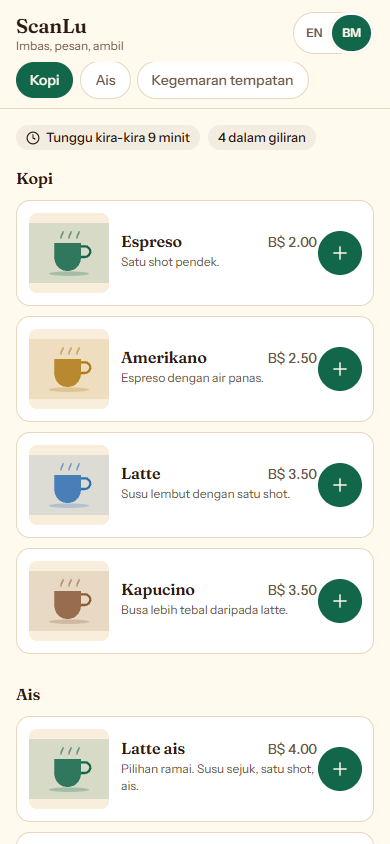
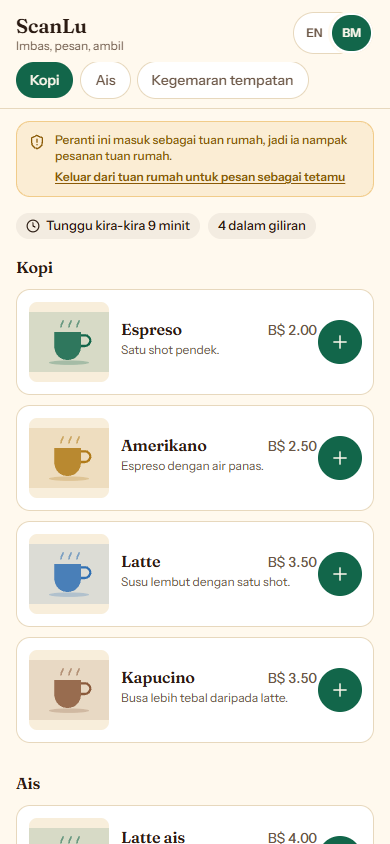
Say when the guest menu is running as the host
An order placed on one device showed up on another, which looked like a privacy
leak. It was not: two tabs of the same browser share one Supabase session, so once
the admin tab had signed in, the guest tab was the admin too, and the order
belonged to the admin account. Any other device still holding that admin session
could read it. Two separate browser profiles are properly isolated, which was
confirmed against the live site before changing anything.

The confusion is worth fixing anyway. The guest menu now shows a notice when the
device is signed in as the host, saying that this device sees host orders, with a
one tap way to sign out and order as a guest. A plain guest sees nothing.

Verified: a fresh profile shows no notice, a host device shows it, signing out
clears it, and the admin area then asks for the passcode again.

diff --git a/src/components/HostNotice.tsx b/src/components/HostNotice.tsx
@@ -1,0 +1,59 @@
+import { useEffect, useState } from 'react'
+import { useTranslation } from 'react-i18next'
+import { ShieldAlert } from 'lucide-react'
+import { getBackend } from '../lib/backend'
+
+/**
+ * A guest page on a device that is still signed in as the host. Both areas share
+ * one browser session, so orders placed here belong to the admin account and the
+ * host's other devices can see them. That looked like a privacy leak, so say what
+ * is happening and offer the way out.
+ */
+export function HostNotice() {
+  const { t } = useTranslation()
+  const [isHost, setIsHost] = useState(false)
+  const [leaving, setLeaving] = useState(false)
+
+  useEffect(() => {
+    let alive = true
+    void (async () => {
+      try {
+        const backend = await getBackend()
+        const admin = await backend.isAdmin()
+        if (alive) setIsHost(admin)
+      } catch {
+        /* not important enough to surface */
+      }
+    })()
+    return () => {
+      alive = false
+    }
+  }, [])
+
+  if (!isHost) return null
+
+  const signOut = async () => {
+    setLeaving(true)
+    const backend = await getBackend()
+    await backend.signOutAdmin()
+    // Reload so the browser picks up a fresh guest session.
+    window.location.reload()
+  }
+
+  return (
+    <div className="mx-4 mt-3 flex items-start gap-2.5 rounded-[var(--radius-md)] border border-warning/40 bg-warning/12 px-3 py-2.5">
+      <ShieldAlert className="mt-0.5 size-4 shrink-0 text-warning-ink" aria-hidden="true" />
+      <div className="min-w-0 flex-1">
+        <p className="text-xs font-medium text-warning-ink">{t('hostNotice.title')}</p>
+        <button
+          type="button"
+          onClick={() => void signOut()}
+          disabled={leaving}
+          className="mt-1 text-xs font-semibold text-warning-ink underline underline-offset-2 disabled:opacity-60"
+        >
+          {leaving ? t('hostNotice.leaving') : t('hostNotice.action')}
+        </button>
+      </div>
+    </div>
+  )
+}

diff --git a/src/pages/MenuPage.tsx b/src/pages/MenuPage.tsx
@@ -10,6 +10,7 @@ import { Banner, Button, Chip, Skeleton, cx } from '../components/ui'
 import { CupArt, ItemSheet } from '../components/ItemSheet'
 import { WelcomeCard } from '../components/WelcomeCard'
 import { LanguageToggle } from '../components/LanguageToggle'
+import { HostNotice } from '../components/HostNotice'
 import { StatusChip } from '../components/StatusChip'
 
 const TINTS = ['#12664A', '#B07A18', '#2F6FB3', '#8A5A3B']
@@ -199,6 +200,8 @@ export function MenuPage() {
           </nav>
         ) : null}
       </header>
+
+      <HostNotice />
 
       {!ordersClosed && status.data?.banner ? (
         <Banner tone="gold" icon={<Info className="mt-0.5 size-4 shrink-0" aria-hidden="true" />}>
